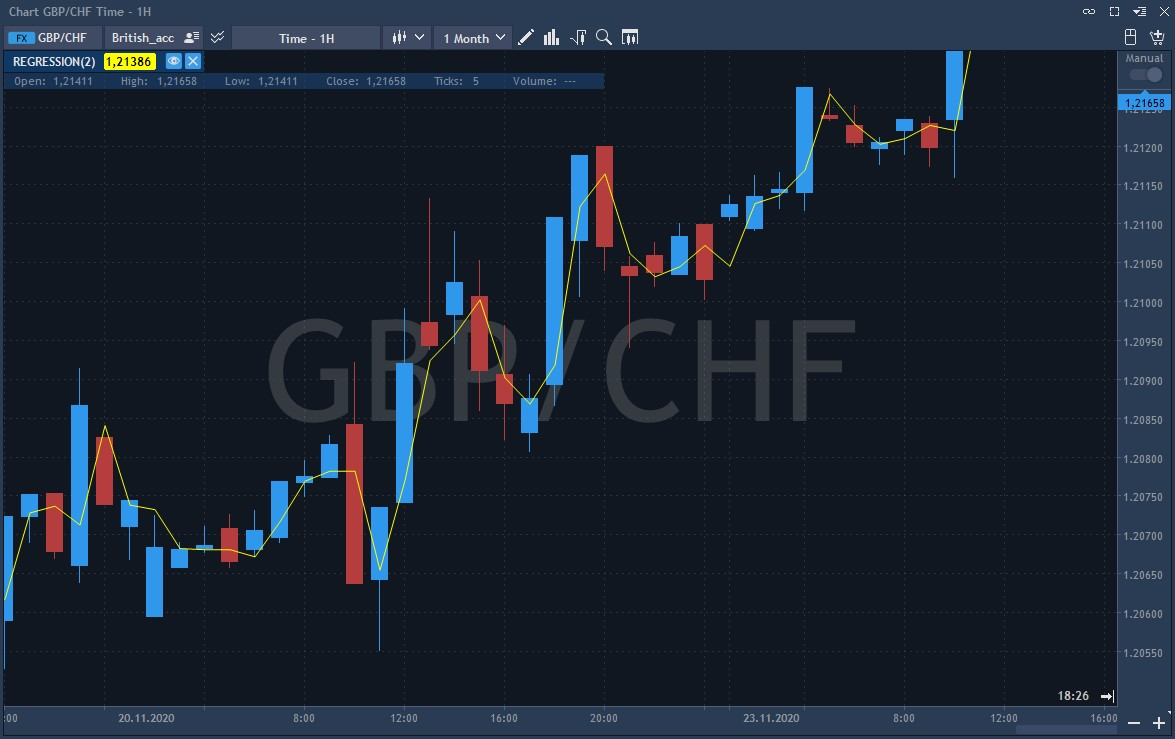
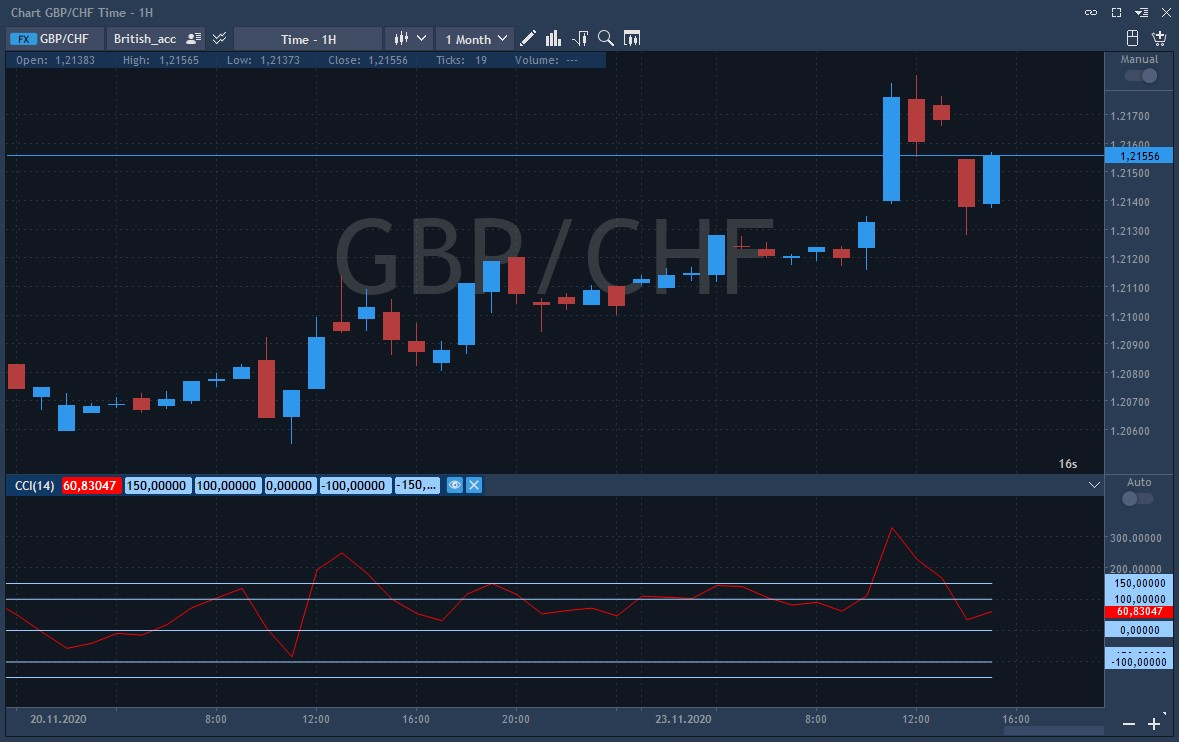
GitBook: [master] 4 pages and 3 assets modified

Changed region(s): [[0.0, 0.0, 1.0, 0.9959], [0.0, 0.0, 0.5515, 0.1245], [0.7353, 0.7158, 0.766, 0.747]]

diff --git a/desktop-application-for-windows/windows/technical-indicators/oscillators/cci-commodity-channel-index.md b/desktop-application-for-windows/windows/technical-indicators/oscillators/cci-commodity-channel-index.md
@@ -1,0 +1,62 @@
+# CCI \(Commodity channel index\)
+
+The commodity channel index \(CCI\) is an oscillator originally introduced by Donald Lambert in 1980. Since its inception, the indicator has gained popularity and is now a very common tool for traders to identify cyclical trends not only in commodities but also in equities and currencies The CCI can be adjusted to the timeframe of the market being traded by changing the averaging period.
+
+Commodity channel index technical Indicator \(CCI\) measures the deviation of a commodity's price from its average statistical price. High index values indicate that the price is unusually high compared to the average one, while low values indicate that the price is too low. Despite the name, the Commodity channel index can be applied for any financial instrument, not just commodities.
+
+There are two basic techniques for using Commodity channel index:
+
+* Divergence detection: a divergence occurs when the price reaches a new maximum, and the Commodity channel index cannot rise above the previous highs. This classical divergence is usually followed by price correction;
+* As an indicator of overbuying/overselling: the Commodity channel index usually fluctuates in the  ±100 range. Values above +100 indicate an overbought state \(and the likelihood of a corrective decline\), and values below 100 indicate an oversold condition \(and a probability of a corrective increase\).
+
+CCI typically oscillates above and below the zero line. Normal oscillations will occur within the range of +100 and −100. Readings above +100 imply an overbought condition, while readings below −100 imply an oversold condition. As with other overbought/oversold indicators, this means that there is a greater likelihood that the price will correct to more representative levels.
+
+### Calculation
+
+To find the typical price, you need to add the HIGH, LOW, and CLOSE prices of each bar, and then divide the result by 3:
+
+TP = \(HIGH + LOW + CLOSE\) / 3
+
+To calculate the n-period Simple moving average of typical prices:
+
+SMA \(TP, N\) = SUM \(TP, N\) / N
+
+To subtract the resulting SMA \(TP, N\) from the typical prices of each of the preceding n periods:
+
+D = TP - SMA \(TP, N\)
+
+To calculate the n-period Simple moving average of the absolute D values:
+
+SMA \(D, N\) = SUM \(D, N\) / N
+
+To multiply the received SMA \(D, N\) by 0,015:
+
+M = SMA \(D, N\) \* 0,015
+
+To divide M by D:
+
+CCI = M / D,
+
+where:
+
+HIGH — maximum bar price;
+
+LOW — minimum bar price;
+
+CLOSE — close price;
+
+SMA — Simple moving average;
+
+SUM — sum;
+
+N — number of periods used for the calculation.
+
+### Main parameters
+
+* Period of moving average – number of periods involved in the calculation, 14 by default;
+* Type of the moving average – for selecting the MA type, available values: Simple, Exponential, Modified, Linear weighted.
+
+The indicator looks as follows on the chart:
+
+![](../../../../.gitbook/assets/screenshot_1%20%2819%29.jpg)
+

diff --git a/SUMMARY.md b/SUMMARY.md
@@ -62,6 +62,7 @@
         * [AC \(Acceleration oscillator\)](desktop-application-for-windows/windows/technical-indicators/oscillators/ac-acceleration-oscillator.md)
         * [AO \(Awesome oscillator\)](desktop-application-for-windows/windows/technical-indicators/oscillators/ao-awesome-oscillator.md)
         * [Aroon](desktop-application-for-windows/windows/technical-indicators/oscillators/aroon.md)
+        * [CCI \(Commodity channel index\)](desktop-application-for-windows/windows/technical-indicators/oscillators/cci-commodity-channel-index.md)
     * [Trading panels](desktop-application-for-windows/windows/trading-panels/README.md)
       * [Order entry](desktop-application-for-windows/windows/trading-panels/order-entry.md)
       * [Super DOM](desktop-application-for-windows/windows/trading-panels/super-dom.md)

diff --git a/desktop-application-for-windows/windows/technical-indicators/moving-averages/regression-line.md b/desktop-application-for-windows/windows/technical-indicators/moving-averages/regression-line.md
@@ -35,5 +35,5 @@ sum XX – sum of squared price.
 
 The Regression line indicator is actually tomorrow's price prediction plotted today. If prices are consistently above or below the forecast price, expect them to quickly return to more realistic levels. In other words, the Regression line indicator shows where prices "should" trade on a statistical basis, and any excessive deviation from the Regression line is likely to be short-lived. The indicator itself looks as follows on the chart:
 
-![](../../../../.gitbook/assets/screenshot_1%20%2819%29.jpg)
+![](../../../../.gitbook/assets/screenshot_1%20%2820%29.jpg)
 

diff --git a/desktop-application-for-windows/windows/technical-indicators/oscillators/ao-awesome-oscillator.md b/desktop-application-for-windows/windows/technical-indicators/oscillators/ao-awesome-oscillator.md
@@ -21,5 +21,5 @@ The main parameters concern the appearance of the histogram, the user can select
 
 The indicator looks as follows on the chart:
 
-![](../../../../.gitbook/assets/screenshot_1%20%2820%29.jpg)
+![](../../../../.gitbook/assets/screenshot_1%20%2821%29.jpg)
 
